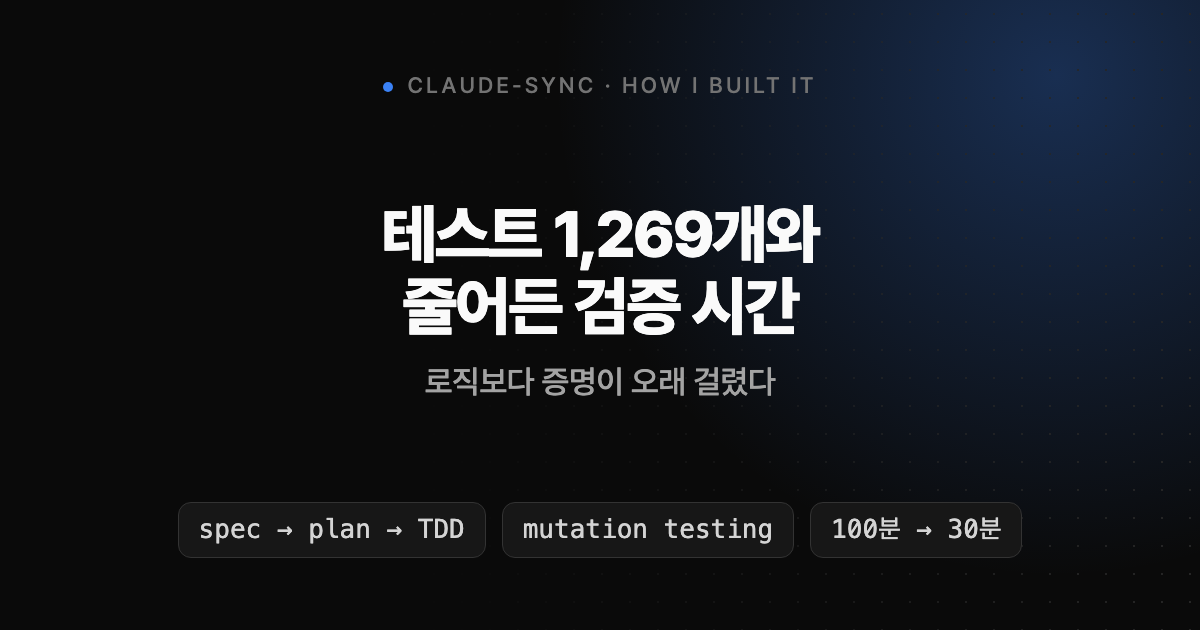
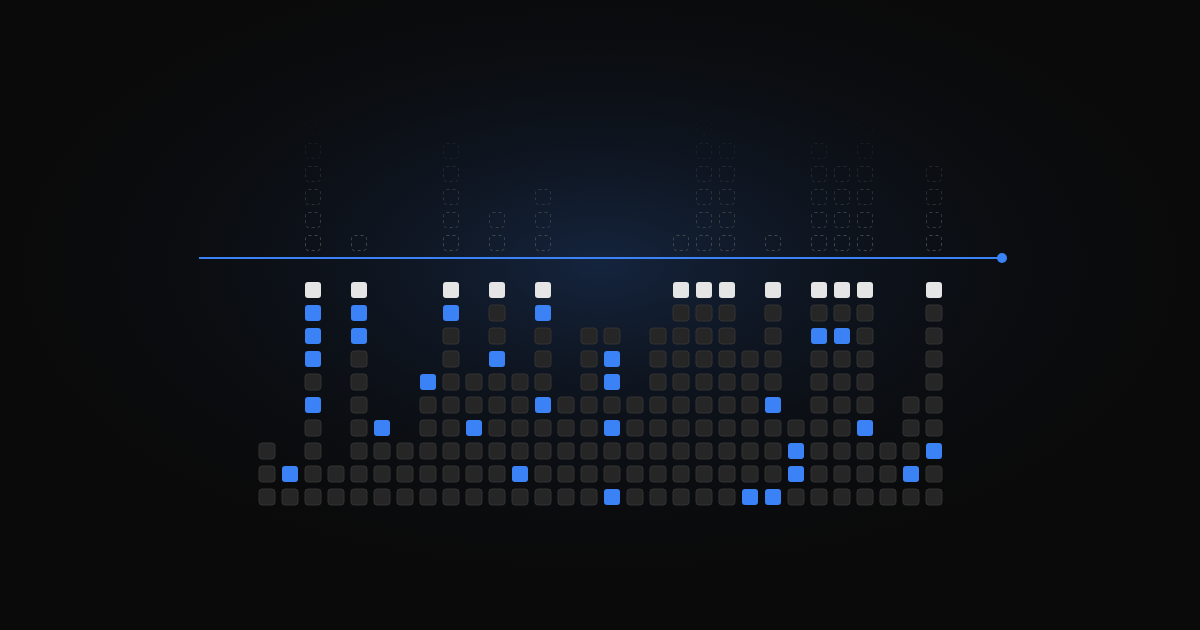
write: claude-sync-how-i-tested 제목 변경, 글자 없는 썸네일로 교체
Claude-Session: https://claude.ai/code/session_01QH1Yq9fUY36UUs2YhPuqua

diff --git a/manuscripts/drafts/claude-sync-how-i-tested.md b/manuscripts/drafts/claude-sync-how-i-tested.md
@@ -1,9 +1,10 @@
 ---
-title: "claude-sync를 만든 방식: 테스트 1,269개와 줄어든 검증 시간"
+title: "테스트 1,269개를 쌓으며 배운, 검증을 어디까지 할지 정하는 법"
 description: 로직보다 증명이 오래 걸렸다
 date: 2026/09/17
 tags:
   - Claude Code
+  - claude-sync
   - testing
   - mutation testing
   - TDD
@@ -14,7 +15,7 @@ categories:
 thumbnail: assets/images/posts/thumbnails/claude-sync-how-i-tested.png
 ---
 
-# claude-sync를 만든 방식: 테스트 1,269개와 줄어든 검증 시간
+# 테스트 1,269개를 쌓으며 배운, 검증을 어디까지 할지 정하는 법
 
 [이전 글](/posts/claude-sync-introduce)에서 Claude Code 설정을 기기 간에 동기화하는 플러그인 claude-sync를 소개했다. 이 도구는 남의 기기에서 온 변경을 받아 **로컬 설정 파일을 덮어쓰거나 지운다.** 한 번 잘못 판정하면 다른 기기에서 공들인 설정이 조용히 사라진다. 그래서 "대충 돌아가는" 수준으로는 내놓을 수 없었고, 결과적으로 테스트가 1,269개(v3.1.2 기준)까지 늘었다.
 
